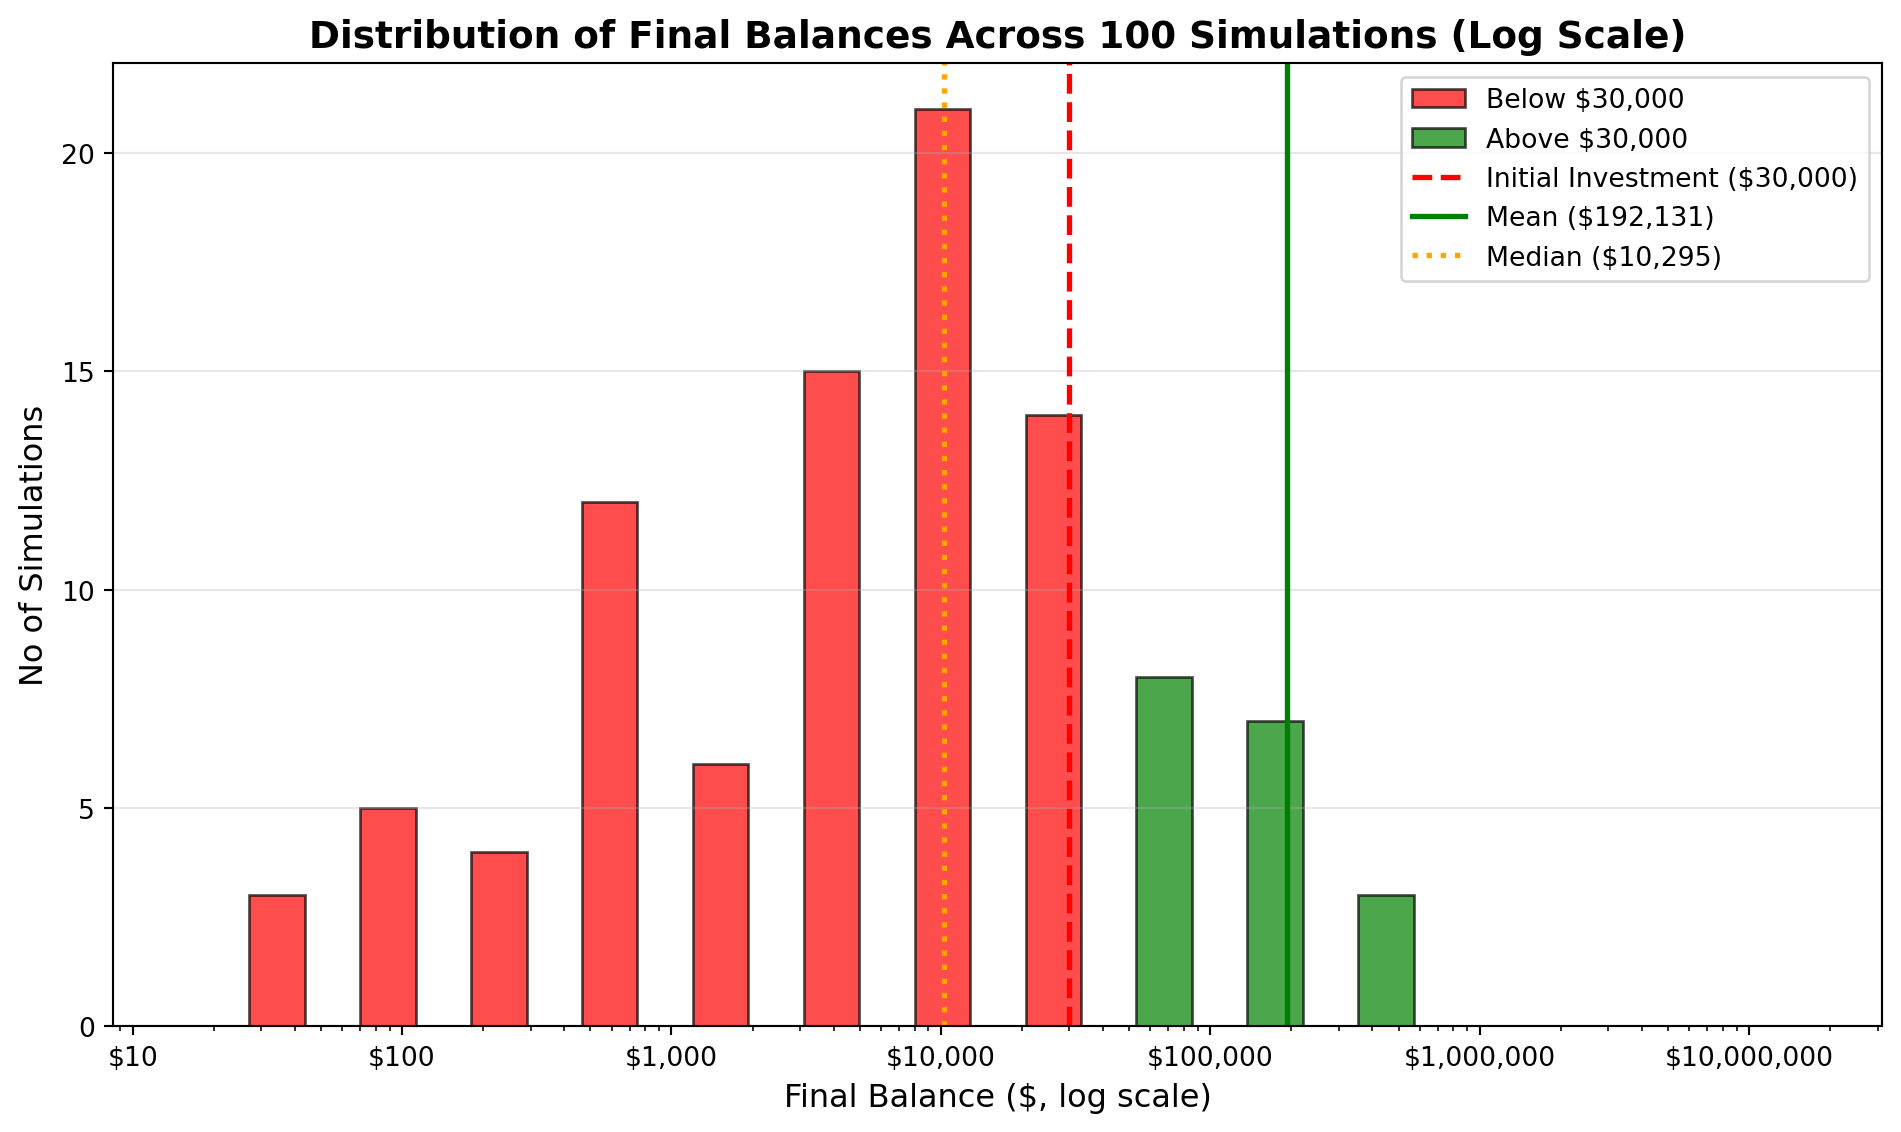
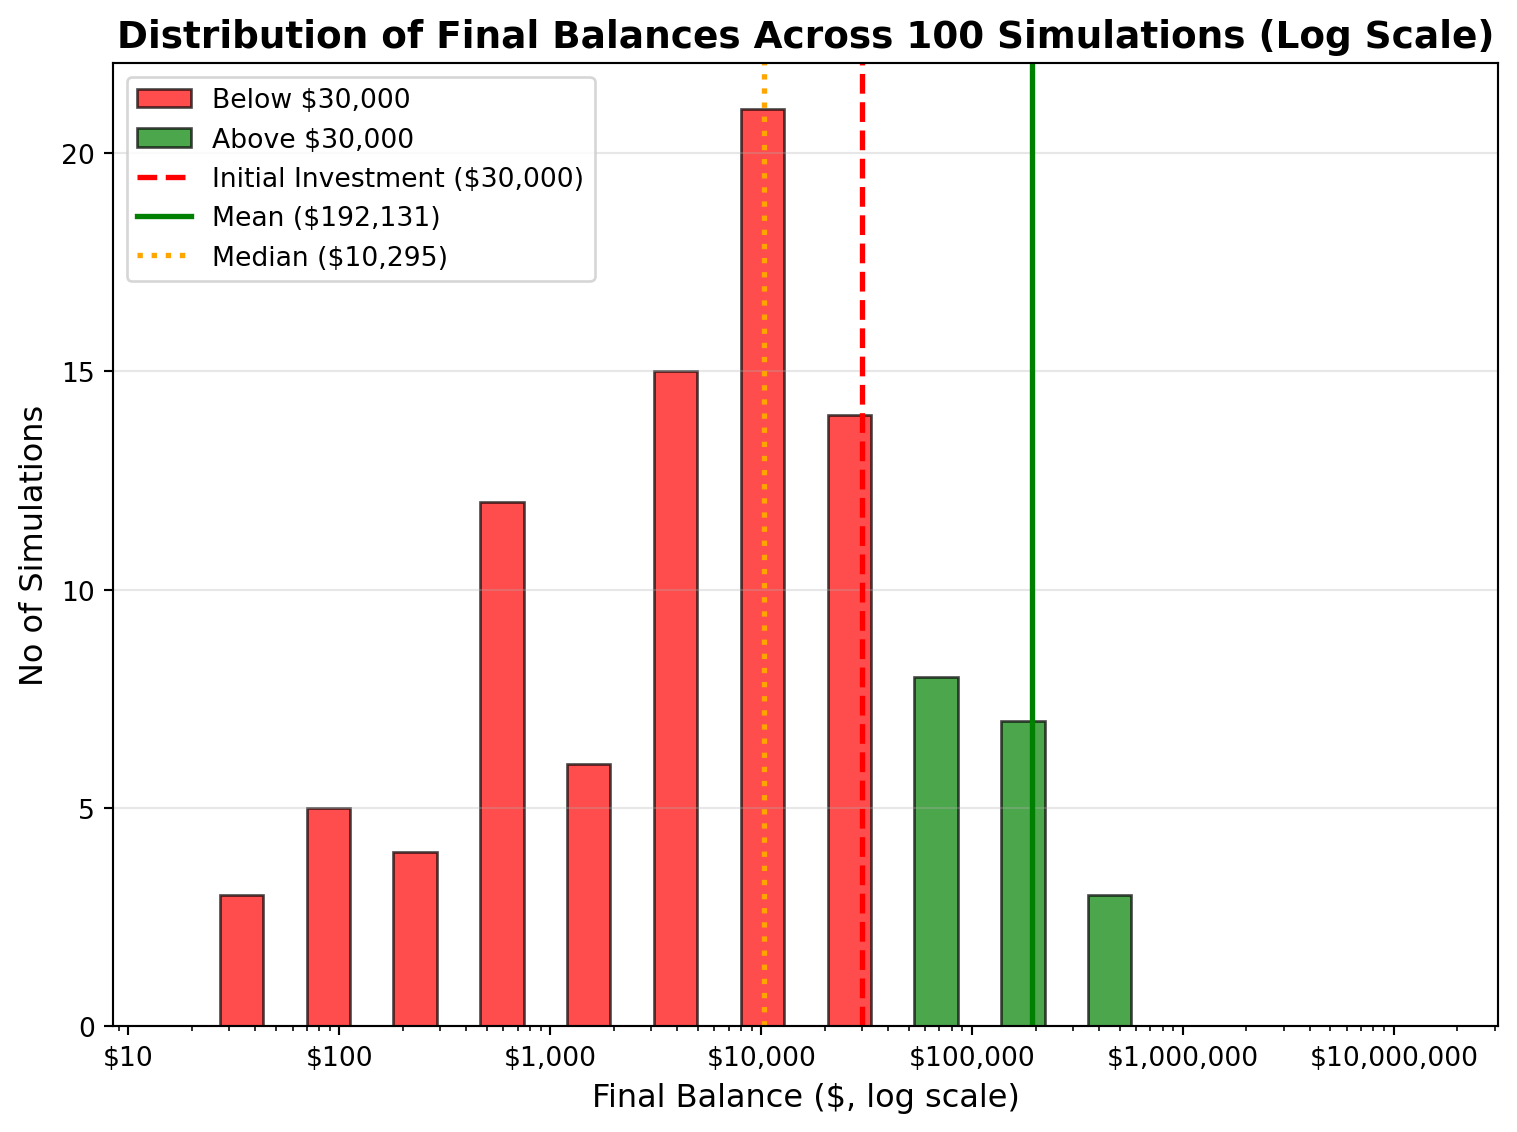
Simulation Challenge Update5

diff --git a/index.html b/index.html
@@ -182,7 +182,7 @@ Tails (losses): 21 out of 29 (72.41%)</code></pre>
 <div class="cell-output cell-output-display">
 <div id="q3-dist-100-py" class="quarto-figure quarto-figure-center anchored">
 <figure class="figure">
-<p><img src="index_files/figure-html/q3-dist-100-py-output-1.png" width="951" height="566" class="figure-img"></p>
+<p><img src="index_files/figure-html/q3-dist-100-py-output-1.png" width="759" height="566" class="figure-img"></p>
 <figcaption>Distribution of final balances across 100 simulations</figcaption>
 </figure>
 </div>
